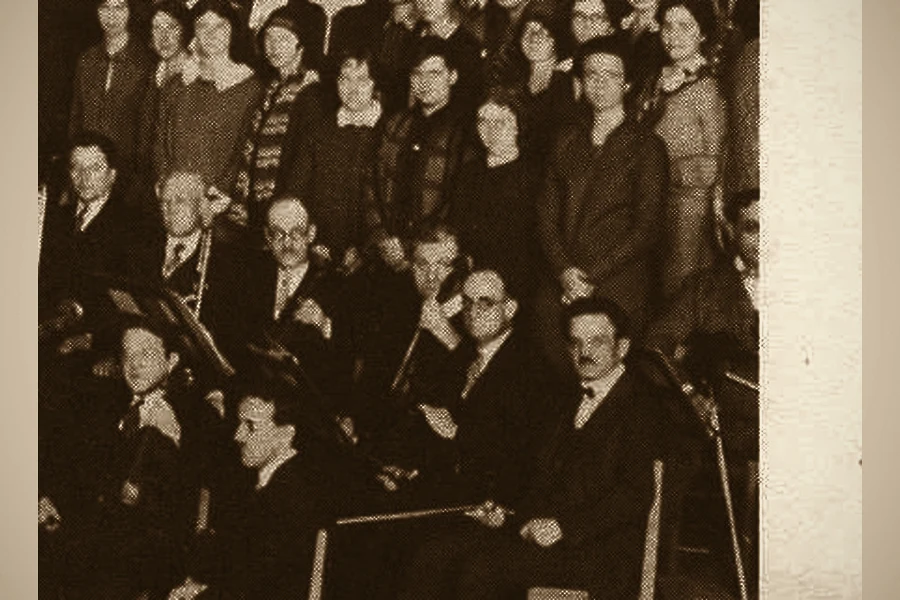
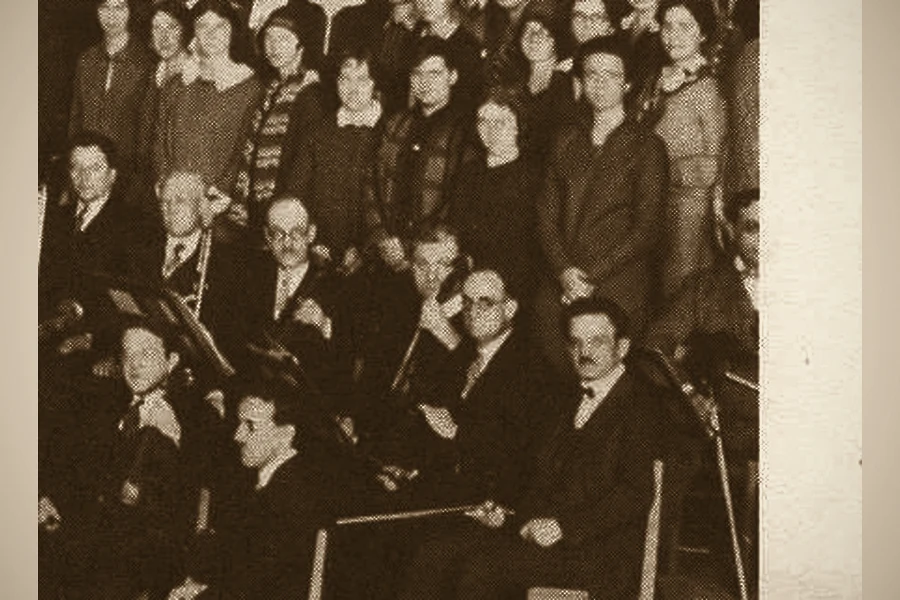
Подписи к снимкам как этикетки; БСО-1928 перетонирован
Подписи: 14px, источник снимка вынесен отдельной строкой (.src) — в блоке Райхмана,
в главах биографии, у Венгловского и в английских главах. Разделение чисто
типографическое: слова и ссылки не менялись.

Тон: у скана БСО-1928 медиана сидела в тенях, общий level() поднимал её не больше
чем на 16% — снимок уходил в чёрный прямоугольник (53,9% пикселей темнее 40/255).
В tools/photo_tone.py появился необязательный подъём теней на конкретный снимок
и флаг --only; для этого скана гамма 0.72: тёмных пикселей 30,4%, детали держатся.

Карточки Райхмана в ряду одной высоты, подпись прижата к нижнему краю паспарту.

diff --git a/src/ru/biography.html b/src/ru/biography.html
@@ -48,7 +48,7 @@
         <h3>Консерватория и класс Борка</h3>
         <p>В 1900 году Блажевич поступил в Московскую консерваторию в класс тромбона Христофора Борка. Учителя он позже вспоминал как «сухого и педантичного педагога, который любил дисциплину и требовал беспрекословного выполнения своих указаний».<sup class="ref"><a href="#s2">[2]</a></sup> Кроме тромбона он изучал теорию музыки, инструментовку и фортепиано и упросил руководство пустить его на уроки других инструментов, чтобы лучше понять, как учат и играют на них. Такую всестороннюю учёбу он потом перенёс в собственную педагогику. Консерваторию он окончил в 1905 году.<sup class="ref"><a href="#s1">[1]</a><a href="#s2">[2]</a></sup></p>
       </div>
-    <figure class="ch-photo"><div class="mat"><img src="assets/blazhevich-1903-560.webp" srcset="assets/blazhevich-1903-560.webp 560w, assets/blazhevich-1903.webp 900w" sizes="(max-width:820px) 70vw, 320px" width="900" height="1327" loading="lazy" alt="Владислав Блажевич в 1903 году, фотография с его автографом и датой"></div><figcaption>Блажевич-студент, 1903 год, с автографом. Автор снимка неизвестен; <a href="https://commons.wikimedia.org/wiki/File:VM_Blazhevich_1903_Portrait_w-Signature.jpg">Wikimedia Commons</a>, общественное достояние.</figcaption></figure></article>
+    <figure class="ch-photo"><div class="mat"><img src="assets/blazhevich-1903-560.webp" srcset="assets/blazhevich-1903-560.webp 560w, assets/blazhevich-1903.webp 900w" sizes="(max-width:820px) 70vw, 320px" width="900" height="1327" loading="lazy" alt="Владислав Блажевич в 1903 году, фотография с его автографом и датой"></div><figcaption>Блажевич-студент, 1903 год, с автографом. <span class="src">Автор снимка неизвестен; <a href="https://commons.wikimedia.org/wiki/File:VM_Blazhevich_1903_Portrait_w-Signature.jpg">Wikimedia Commons</a>, общественное достояние.</span></figcaption></figure></article>
 
     <article class="chapter reveal" id="ch-bolshoi">
       <div class="ch-mark"><span class="ch-years">1905–1928</span><span class="ch-place">Большой театр</span></div>
@@ -58,7 +58,7 @@
         <p>В Первую мировую войну его призвали помощником смотрителя военного госпиталя. При этом он продолжал играть в Большом театре и по ночам сочинял. В 1916 году он устроил благотворительный концерт из собственных сочинений в память о погибших.<sup class="ref"><a href="#s2">[2]</a></sup></p>
         <p>В 1922–1932 годах Блажевич играл в Персимфансе — Первом симфоническом ансамбле без дирижёра. В 1926 году, по русской Википедии, он организовал и возглавил духовой оркестр Особого вооружённого отряда. Из Большого театра он ушёл в 1928 году первым тромбоном. Последним спектаклем был «Князь Игорь» Бородина. Уход в 47 лет коллеги сочли слишком ранним.<sup class="ref"><a href="#s2">[2]</a></sup></p>
       </div>
-    <figure class="ch-plate"><img src="assets/bolshoi-1905.webp" width="960" height="600" loading="lazy" decoding="async" alt="Большой театр в Москве, фотография около 1905 года"><figcaption>Большой театр, около 1905 года. В эти годы Блажевич пришёл в его оркестр. Тонированная фотография, <a href="https://commons.wikimedia.org/wiki/File:Bolshoi_Theatre_1905.jpg">Wikimedia Commons</a>, общественное достояние.</figcaption></figure></article>
+    <figure class="ch-plate"><img src="assets/bolshoi-1905.webp" width="960" height="600" loading="lazy" decoding="async" alt="Большой театр в Москве, фотография около 1905 года"><figcaption>Большой театр, около 1905 года. В эти годы Блажевич пришёл в его оркестр. <span class="src">Тонированная фотография, <a href="https://commons.wikimedia.org/wiki/File:Bolshoi_Theatre_1905.jpg">Wikimedia Commons</a>, общественное достояние.</span></figcaption></figure></article>
 
     <article class="chapter reveal" id="ch-teacher">
       <div class="ch-mark"><span class="ch-years">1920–1942</span><span class="ch-place">Консерватория</span></div>
@@ -68,7 +68,7 @@
         <p>Как пишет консерватория, школ, этюдов и пьес для тромбона и тубы в России тогда почти не было, и этот «репертуарный голод» заставил Блажевича писать их самому. Он написал две школы для тромбона: в 1925 году сложную школу в ключах, а в 1936 году школу для начинающих с аккомпанементом фортепиано. Кроме того — школу легато, 26 секвенций, 38 концертных дуэтов, 12 мелодических и 24 виртуозных этюда, этюды для альтового и бас-тромбона, школу и 70 этюдов для тубы. Тринадцать концертов он, по собственным словам, писал, чтобы показать все возможности тромбона и дать студентам сольный репертуар.<sup class="ref"><a href="#s3">[3]</a><a href="#s6">[6]</a></sup> Большинство концертов написано в 1920-е годы, № 11–13, вероятно, в 1930-е.<sup class="ref"><a href="#s1">[1]</a><a href="#s3">[3]</a></sup></p>
         <p>За двадцать два года работы в консерватории он воспитал многих тромбонистов и тубистов. Лучшими его учениками называют В. А. Щербинина, солиста Большого театра и профессора консерватории, и Б. П. Григорьева, профессора института имени Гнесиных.</p><sup class="ref"><a href="#s1">[1]</a><a href="#s7">[7]</a></sup>
       </div>
-    <aside class="ch-note"><b class="ch-nums"><i>2</i><span class="sep"> · </span><i>38</i><span class="sep"> · </span><i>26</i><span class="sep"> · </span><i>13</i></b><span>Две школы для тромбона, 38 концертных дуэтов, 26 секвенций и 13 концертов, не считая этюдов и школы для тубы.</span></aside><figure class="ch-plate"><img src="assets/conservatory-1940s.webp" width="960" height="600" loading="lazy" decoding="async" alt="Большой зал Московской консерватории, фотография 1940-х годов"><figcaption>Московская консерватория, 1940-е годы. Здесь Блажевич преподавал с 1920 года до конца жизни. Тонированная фотография, <a href="https://commons.wikimedia.org/wiki/File:Moscow_Cnservatory_1940-e.JPG">Wikimedia Commons</a>, общественное достояние.</figcaption></figure></article>
+    <aside class="ch-note"><b class="ch-nums"><i>2</i><span class="sep"> · </span><i>38</i><span class="sep"> · </span><i>26</i><span class="sep"> · </span><i>13</i></b><span>Две школы для тромбона, 38 концертных дуэтов, 26 секвенций и 13 концертов, не считая этюдов и школы для тубы.</span></aside><figure class="ch-plate"><img src="assets/conservatory-1940s.webp" width="960" height="600" loading="lazy" decoding="async" alt="Большой зал Московской консерватории, фотография 1940-х годов"><figcaption>Московская консерватория, 1940-е годы. Здесь Блажевич преподавал с 1920 года до конца жизни. <span class="src">Тонированная фотография, <a href="https://commons.wikimedia.org/wiki/File:Moscow_Cnservatory_1940-e.JPG">Wikimedia Commons</a>, общественное достояние.</span></figcaption></figure></article>
 
     <article class="chapter reveal" id="ch-conductor">
       <div class="ch-mark"><span class="ch-years">1920–1941</span><span class="ch-place">Дирижёр и автор книг</span></div>

diff --git a/src/en/page.html b/src/en/page.html
@@ -135,13 +135,13 @@
       <p>After the Conservatory Blazhevich won a place in the Bolshoi Theatre orchestra. English Wikipedia, following Kharlamov, gives the 1906 season; Russian sources give 1905. Colleagues remembered him as strong-willed and kind, and an excellent section leader. He also played in the Moscow Brass Quartet with S. Loginov, A. Kolpinsky and A. Andrushkevich.<sup class="ref"><a href="#s1">[1]</a><a href="#s2">[2]</a><a href="#s7">[7]</a></sup></p>
       <p>During the First World War he was drafted as an assistant superintendent of a military hospital. He kept playing at the Bolshoi and composed at night. In 1916 he organised a benefit concert of his own works in memory of the fallen.<sup class="ref"><a href="#s2">[2]</a></sup></p>
       <p>In 1922–1932 he played in Persimfans, the First Conductorless Symphony Ensemble. In 1926, according to Russian Wikipedia, he organised and led the wind band of the Special Armed Detachment. He left the Bolshoi in 1928 as principal trombone; his last performance was Borodin’s <i>Prince Igor</i>. Colleagues thought retiring at 47 was too early.<sup class="ref"><a href="#s2">[2]</a></sup></p>
-    </div><figure class="ch-plate"><img src="assets/bolshoi-1905.webp" width="960" height="600" loading="lazy" decoding="async" alt="The Bolshoi Theatre in Moscow, photograph of about 1905"><figcaption>The Bolshoi Theatre, about 1905, the years when Blazhevich joined its orchestra. Toned photograph, <a href="https://commons.wikimedia.org/wiki/File:Bolshoi_Theatre_1905.jpg">Wikimedia Commons</a>, public domain.</figcaption></figure></article>
+    </div><figure class="ch-plate"><img src="assets/bolshoi-1905.webp" width="960" height="600" loading="lazy" decoding="async" alt="The Bolshoi Theatre in Moscow, photograph of about 1905"><figcaption>The Bolshoi Theatre, about 1905, the years when Blazhevich joined its orchestra. <span class="src">Toned photograph, <a href="https://commons.wikimedia.org/wiki/File:Bolshoi_Theatre_1905.jpg">Wikimedia Commons</a>, public domain.</span></figcaption></figure></article>
     <article class="chapter reveal"><div class="ch-mark"><span class="ch-years">1920–1942</span><span class="ch-place">Conservatory</span></div><div class="ch-body">
       <h3>Professor and author of methods</h3>
       <p>In 1920 the rector of the Moscow Conservatory, M. M. Ippolitov-Ivanov, invited Blazhevich to become professor of trombone and tuba. He founded the military bandmasters’ class, which later grew into the faculty of military conductors, and headed that department in 1929–1936. In the 1930s he also taught at the Gnesin school.<sup class="ref"><a href="#s1">[1]</a><a href="#s2">[2]</a></sup></p>
       <p>As the Conservatory puts it, there were almost no methods, etudes or pieces for trombone and tuba in Russia at the time, and this “repertoire hunger” made Blazhevich write them himself. He wrote two trombone methods: an advanced school in clefs in 1925 and a beginners’ school with piano accompaniment in 1936. He also wrote a legato school, 26 sequences, 38 concert duets, 12 melodic and 24 virtuoso etudes, etudes for alto and bass trombone, and a tuba method and 70 studies for tuba. By his own account, he wrote the thirteen concertos to show all the capabilities of the trombone and to give students solo repertoire. Most of the concertos date from the 1920s; Nos. 11–13 were probably written in the 1930s.<sup class="ref"><a href="#s1">[1]</a><a href="#s3">[3]</a><a href="#s6">[6]</a></sup></p>
       <p>Over twenty-two years at the Conservatory he trained many trombonists and tuba players. His best pupils are named as V. A. Shcherbinin, soloist of the Bolshoi and Conservatory professor, and B. P. Grigoriev, professor at the Gnesin Institute.<sup class="ref"><a href="#s1">[1]</a><a href="#s7">[7]</a></sup></p>
-    </div><aside class="ch-note"><b class="ch-nums"><i>2</i><span class="sep"> · </span><i>38</i><span class="sep"> · </span><i>26</i><span class="sep"> · </span><i>13</i></b><span>Two trombone methods, 38 concert duets, 26 sequences and 13 concertos, not counting etudes and the tuba school.</span></aside><figure class="ch-plate"><img src="assets/conservatory-1940s.webp" width="960" height="600" loading="lazy" decoding="async" alt="The Great Hall of the Moscow Conservatory, photograph of the 1940s"><figcaption>The Moscow Conservatory in the 1940s. Blazhevich taught here from 1920 until the end of his life. Toned photograph, <a href="https://commons.wikimedia.org/wiki/File:Moscow_Cnservatory_1940-e.JPG">Wikimedia Commons</a>, public domain.</figcaption></figure></article>
+    </div><aside class="ch-note"><b class="ch-nums"><i>2</i><span class="sep"> · </span><i>38</i><span class="sep"> · </span><i>26</i><span class="sep"> · </span><i>13</i></b><span>Two trombone methods, 38 concert duets, 26 sequences and 13 concertos, not counting etudes and the tuba school.</span></aside><figure class="ch-plate"><img src="assets/conservatory-1940s.webp" width="960" height="600" loading="lazy" decoding="async" alt="The Great Hall of the Moscow Conservatory, photograph of the 1940s"><figcaption>The Moscow Conservatory in the 1940s. Blazhevich taught here from 1920 until the end of his life. <span class="src">Toned photograph, <a href="https://commons.wikimedia.org/wiki/File:Moscow_Cnservatory_1940-e.JPG">Wikimedia Commons</a>, public domain.</span></figcaption></figure></article>
     <article class="chapter reveal"><div class="ch-mark"><span class="ch-years">1920–1941</span><span class="ch-place">Conductor and author</span></div><div class="ch-body">
       <h3>Goznak and the State Wind Orchestra of the USSR</h3>
       <p>According to the Krugosvet encyclopedia, from 1920 Blazhevich directed the wind band of the Goznak factory, and led it for many years.<sup class="ref"><a href="#s8">[8]</a></sup></p>

diff --git a/src/ru/usa.html b/src/ru/usa.html
@@ -45,10 +45,10 @@
       <p><b>Кусевицкий.</b> В Библиотеке Конгресса хранятся четыре его письма Кусевицкому на русском языке. Три письма 1930 года касаются визы, а письмо 1945 года он закончил словами «оставаясь навсегда преданным Вам».<sup class="ref"><a href="#s4">[4]</a></sup></p>
       <p><b>Мост для Блажевича.</b> В 1948 году Райхман издал школу Блажевича в ключах под названием «Clef Studies for Trombone». Его архив, переданный семьёй в Бостонский университет, по сообщению Харламова, частично погиб при протечке.<sup class="ref"><a href="#s3">[3]</a><a href="#s4">[4]</a></sup></p>
       <div class="r-plates">
-      <figure class="ch-plate"><img src="assets/raichman-portrait.webp" width="600" height="750" loading="lazy" decoding="async" alt="Яков Райхман, портрет из круглой рамки"><figcaption>Яков Райхман — «ныне первый тромбонист Бостонского симфонического оркестра», снимок из статьи Дугласа Йео о низкой меди БСО (ITA Journal, осень 1986). Фото из открытого источника: yeodoug.com.</figcaption></figure>
-      <figure class="ch-plate"><img src="assets/bso-trombones-1928.webp" width="900" height="600" loading="lazy" decoding="async" alt="Тромбонная группа Бостонского симфонического оркестра, 1928 год"><figcaption>Тромбонная группа Бостонского симфонического оркестра, 1928 год: слева направо — Яков Райхман, Лусиан Хансотте, Лерой Кенфилд. Скан ITA Journal, осень 1986, источник yeodoug.com.</figcaption></figure>
-      <figure class="ch-plate"><img src="assets/hunsberger-usmc.webp" width="600" height="750" loading="lazy" decoding="async" alt="Дональд Хансбергер в 1950-е годы, оркестр морской пехоты США"><figcaption><b>Дональд Хансбергер</b> (1929–2023) — тромбонист «The President’s Own» и многолетний руководитель духового ансамбля Истменовской школы; в 1965 году редактировал «Clef Studies» для MCA Music. Фотография 1950-х годов, Wikimedia Commons.</figcaption></figure>
-      <figure class="ch-plate"><img src="assets/edwards-trombone.webp" width="900" height="600" loading="lazy" decoding="async" alt="Брэд Эдвардс с тромбоном"><figcaption><b>Брэд Эдвардс</b> — профессор Аризонского университета, автор сборника «Before Blazhevich» (2002), готовящего к «Clef Studies». Фото из открытого источника: asubones.org.</figcaption></figure>
+      <figure class="ch-plate"><img src="assets/raichman-portrait.webp" width="600" height="750" loading="lazy" decoding="async" alt="Яков Райхман, портрет из круглой рамки"><figcaption>Яков Райхман — «ныне первый тромбонист Бостонского симфонического оркестра», снимок из статьи Дугласа Йео о низкой меди БСО (ITA Journal, осень 1986). <span class="src">Фото из открытого источника: yeodoug.com.</span></figcaption></figure>
+      <figure class="ch-plate"><img src="assets/bso-trombones-1928.webp" width="900" height="600" loading="lazy" decoding="async" alt="Тромбонная группа Бостонского симфонического оркестра, 1928 год"><figcaption>Тромбонная группа Бостонского симфонического оркестра, 1928 год: слева направо — Яков Райхман, Лусиан Хансотте, Лерой Кенфилд. <span class="src">Скан ITA Journal, осень 1986, источник yeodoug.com.</span></figcaption></figure>
+      <figure class="ch-plate"><img src="assets/hunsberger-usmc.webp" width="600" height="750" loading="lazy" decoding="async" alt="Дональд Хансбергер в 1950-е годы, оркестр морской пехоты США"><figcaption><b>Дональд Хансбергер</b> (1929–2023) — тромбонист «The President’s Own» и многолетний руководитель духового ансамбля Истменовской школы; в 1965 году редактировал «Clef Studies» для MCA Music. <span class="src">Фотография 1950-х годов, Wikimedia Commons.</span></figcaption></figure>
+      <figure class="ch-plate"><img src="assets/edwards-trombone.webp" width="900" height="600" loading="lazy" decoding="async" alt="Брэд Эдвардс с тромбоном"><figcaption><b>Брэд Эдвардс</b> — профессор Аризонского университета, автор сборника «Before Blazhevich» (2002), готовящего к «Clef Studies». <span class="src">Фото из открытого источника: asubones.org.</span></figcaption></figure>
       </div>
     </div>
   </article>

diff --git a/src/ru/leningrad.html b/src/ru/leningrad.html
@@ -92,7 +92,7 @@
         <p>Автор статьи «Trombone School of the Petersburg-Petrograd-Leningrad Conservatory» // International Trombone Association Journal, 1984, Vol. XII, № 2, с. 26–28. Методические работы: «Основы рациональной постановки при игре на тромбоне» // Вопросы музыкальной педагогики, вып. 4. М., 1983. С. 57–63; «Специфические особенности звукоизвлечения…» (сб. Гнесинского института). Для квартета написаны и впервые исполнены сочинения В. И. Кладницкого, А. А. Боярского, Г. Г. Окунева, Т. К. Мынбаева.</p>
         <p><span class="warn">⚠</span> Начало преподавания в консерватории: в сборнике и энциклопедии консерватории встречаются 1963 и 1966 годы.</p>
       </div>
-      <figure class="ch-plate"><img src="assets/trombonist-venglovsky.webp" width="600" height="813" loading="lazy" decoding="async" alt="Виктор Фёдорович Венгловский с тромбоном, студийный портрет"><figcaption><b>Виктор Фёдорович Венгловский</b> (1926–1994) — солист и руководитель Квартета тромбонов Ленинградской филармонии, профессор консерватории. Студийный портрет. Фото: © Архив Санкт-Петербургской филармонии им. Д. Д. Шостаковича (100philharmonia.spb.ru).</figcaption></figure>
+      <figure class="ch-plate"><img src="assets/trombonist-venglovsky.webp" width="600" height="813" loading="lazy" decoding="async" alt="Виктор Фёдорович Венгловский с тромбоном, студийный портрет"><figcaption><b>Виктор Фёдорович Венгловский</b> (1926–1994) — солист и руководитель Квартета тромбонов Ленинградской филармонии, профессор консерватории. Студийный портрет. <span class="src">Фото: © Архив Санкт-Петербургской филармонии им. Д. Д. Шостаковича (100philharmonia.spb.ru).</span></figcaption></figure>
     </article>
   </div>
 

diff --git a/src/style.css b/src/style.css
@@ -327,7 +327,10 @@ input:disabled,select:disabled{opacity:.6;cursor:not-allowed}
 /* блок Райхмана: четыре снимка сеткой 2×2 — столбиком они вытягивают статью на три экрана */
 .raichman .r-body{max-width:none}
 .raichman .r-body > p{max-width:var(--measure)}
-.r-plates{display:grid;grid-template-columns:repeat(2,minmax(0,1fr));gap:var(--s-5) var(--s-6);margin-top:var(--s-4);align-items:start;max-width:760px}
+.r-plates{display:grid;grid-template-columns:repeat(2,minmax(0,1fr));gap:var(--s-5) var(--s-6);margin-top:var(--s-4);max-width:760px}
+/* карточки в ряду одной высоты, подпись прижата к нижнему краю паспарту — низ сетки не рвётся */
+.r-plates .ch-plate{grid-template-rows:auto 1fr}
+.r-plates figcaption{align-self:end}
 .r-plates .ch-plate{margin-top:0;max-width:none;padding:var(--s-3);background:var(--surface);border:1px solid var(--line);outline:1px solid var(--rule);outline-offset:calc(var(--s-1) * -1);box-shadow:0 14px 30px -18px var(--shadow)}
 /* на паспарту снимок лежит отпечатком, а не тушью: multiply оставляем только свободным плашкам */
 .r-plates .ch-plate img{mix-blend-mode:normal}
@@ -799,7 +802,9 @@ html:not(.past-hero) .progress{opacity:0}
 .nw{white-space:nowrap}
 .ch-plate{margin:calc(-1 * var(--s-4)) 0 0;display:grid;gap:var(--s-3);max-width:760px}
 .ch-plate img{display:block;width:100%;height:auto;mix-blend-mode:multiply}
-.ch-plate figcaption{font-size:13px;line-height:1.5;color:var(--muted);max-width:62ch}
+.ch-plate figcaption{font-size:14px;line-height:1.5;color:var(--muted);max-width:62ch}
+/* источник снимка — отдельной строкой, как нижняя строка музейной этикетки */
+.ch-plate figcaption .src{display:block;margin-top:.35em;font-size:12px;line-height:1.45;letter-spacing:.01em;color:var(--muted);opacity:.85}
 /* фото на странице «Американские школы тромбона»: та же плашка без отрицательного отступа */
 .us-plate{margin:var(--s-6) 0;display:grid;gap:var(--s-3);max-width:760px}
 .us-plate img{display:block;width:100%;height:auto;mix-blend-mode:multiply}

diff --git a/tools/photo_tone.py b/tools/photo_tone.py
@@ -38,7 +38,8 @@ JOBS = [
     ('mail/raichman-portrait.webp', 'raichman-portrait.webp', PORTRAIT, 0.45, 'fit', 0.50),
     ('mail/hunsberger-usmc.webp', 'hunsberger-usmc.webp', PORTRAIT, 0.40, 'crop', 0.50),
     ('mail/edwards-trombone.webp', 'edwards-trombone.webp', PLATE, 0.42, 'crop', 0.50),
-    ('mail/bso-trombones-1928.webp', 'bso-trombones-1928.webp', PLATE, 0.50, 'fit', 0.50),
+    # у этого скана медиана сидит в тенях, общий level() до него не достаёт — подъём задан отдельно
+    ('mail/bso-trombones-1928.webp', 'bso-trombones-1928.webp', PLATE, 0.50, 'fit', 0.50, 0.72),
     ('mail/lindberg-960.webp', 'lindberg-960.webp', PORTRAIT, 0.40, 'crop', 0.50),
     # снимки школ США (загрузки из Wikimedia, исходники сохранены в _originals/wiki)
     ('wiki/eastman.webp', 'us-schools/eastman.webp', PLATE, 0.50, 'crop', 0.50),
@@ -143,7 +144,7 @@ def level(img: Image.Image, target: int = 138) -> Image.Image:
     return ImageEnhance.Brightness(img).enhance(gain)
 
 
-def process(src: Path, dst: Path, size: tuple[int, int], anchor_y: float, mode: str, anchor_x: float) -> tuple[int, int]:
+def process(src: Path, dst: Path, size: tuple[int, int], anchor_y: float, mode: str, anchor_x: float, lift: float = 1.0) -> tuple[int, int]:
     img = Image.open(src).convert('RGB')
     if mode == 'fit':
         img = fit_to(img, size)
@@ -151,6 +152,9 @@ def process(src: Path, dst: Path, size: tuple[int, int], anchor_y: float, mode: 
         img = crop_to(img, size, anchor_y).resize(size, Image.LANCZOS)
     img = ImageEnhance.Contrast(duotone(img)).enhance(1.02)
     img = level(img)
+    if lift != 1.0:                                   # подъём теней: гамма меньше единицы светлит низы
+        table = [min(255, int(round(255 * (v / 255) ** lift))) for v in range(256)]
+        img = img.point(table * 3)
     img = vignette(img)
     img = grain(img, 4.0)
     img = ImageEnhance.Sharpness(img).enhance(1.15)
@@ -162,16 +166,21 @@ def process(src: Path, dst: Path, size: tuple[int, int], anchor_y: float, mode: 
 def main() -> int:
     ap = argparse.ArgumentParser()
     ap.add_argument('--sheet', action='store_true', help='собрать контактный лист для просмотра')
+    ap.add_argument('--only', default='', help='обработать только файлы, в имени которых есть подстрока')
     a = ap.parse_args()
 
     missing, done = [], []
-    for src_name, dst_name, size, anchor, mode, ax in JOBS:
+    for job in JOBS:
+        src_name, dst_name, size, anchor, mode, ax = job[:6]
+        lift = job[6] if len(job) > 6 else 1.0
+        if a.only and a.only not in dst_name:
+            continue
         src = ORIG / src_name
         if not src.exists():
             missing.append(src_name)
             continue
         dst = ROOT / 'assets' / dst_name
-        w, h = process(src, dst, size, anchor, mode, ax)
+        w, h = process(src, dst, size, anchor, mode, ax, lift)
         done.append((dst_name, w, h, dst.stat().st_size))
 
     for name, w, h, size in done:
